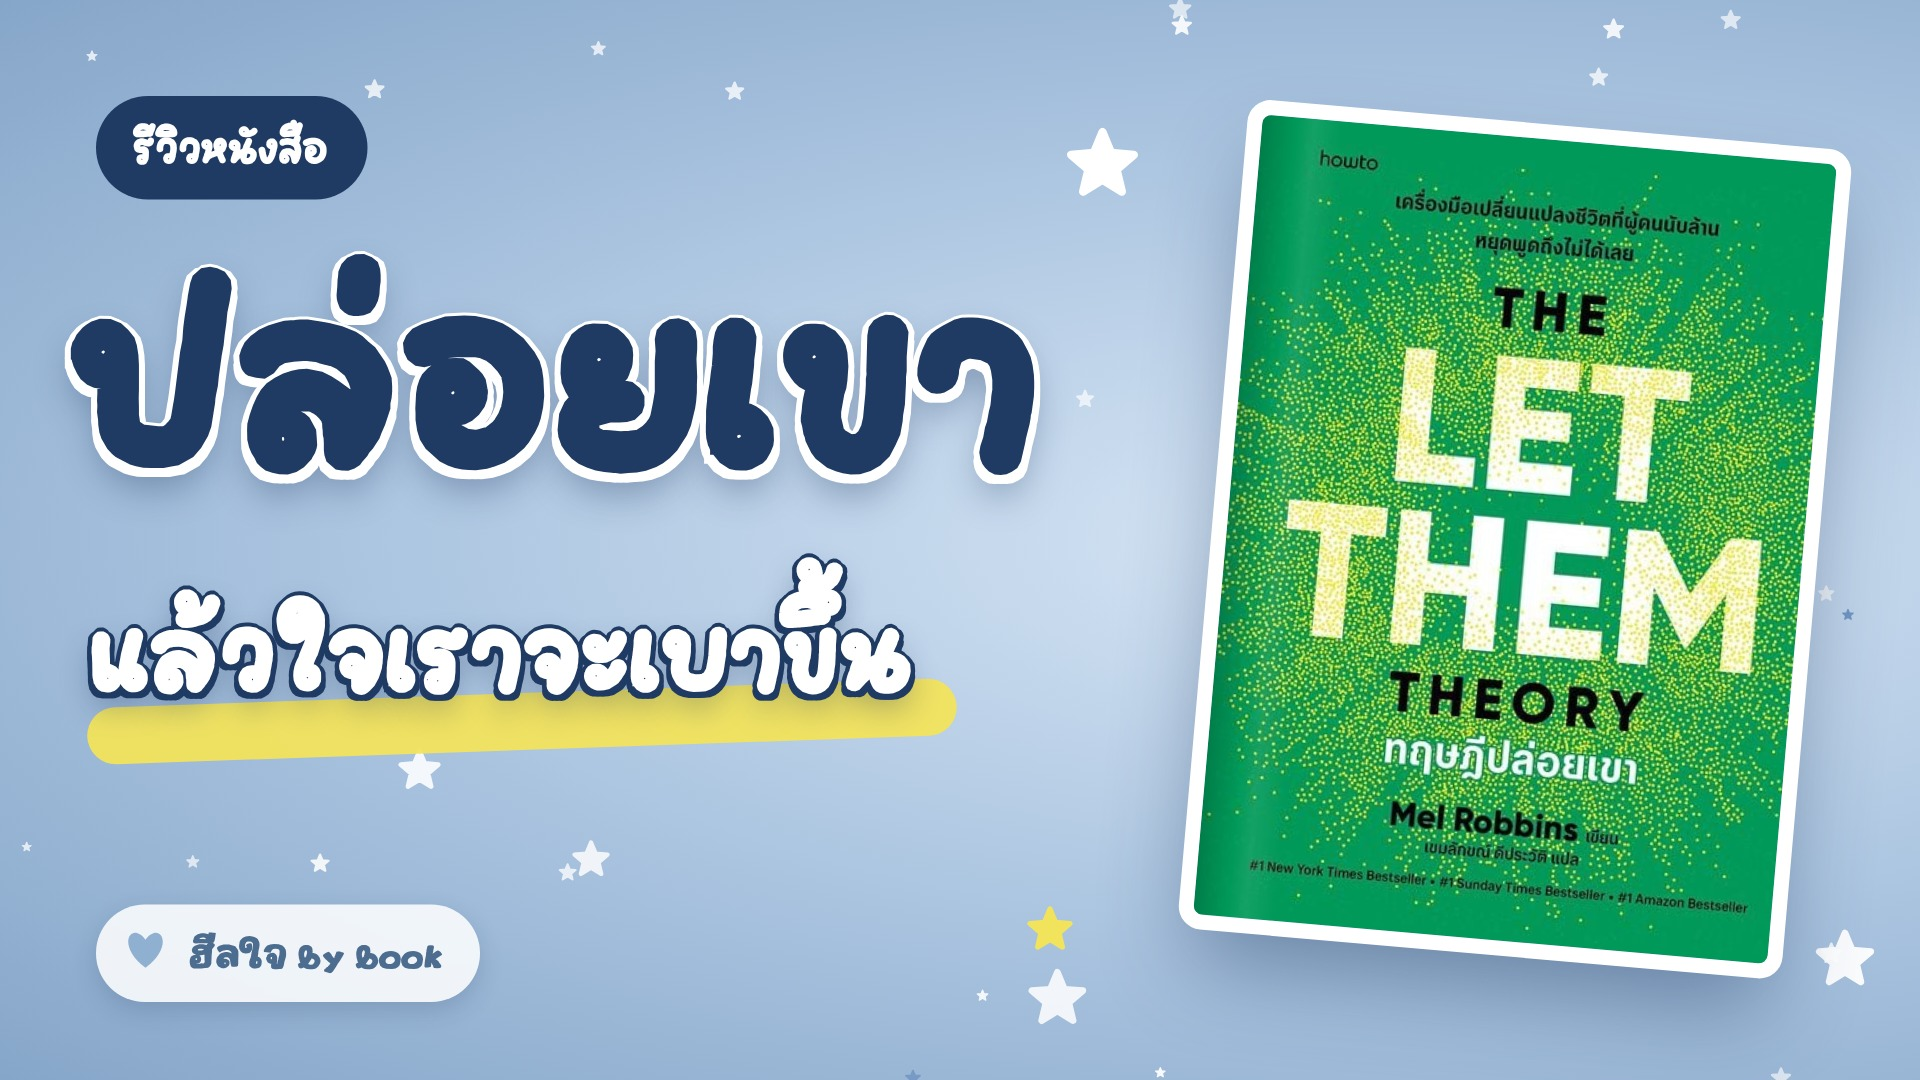
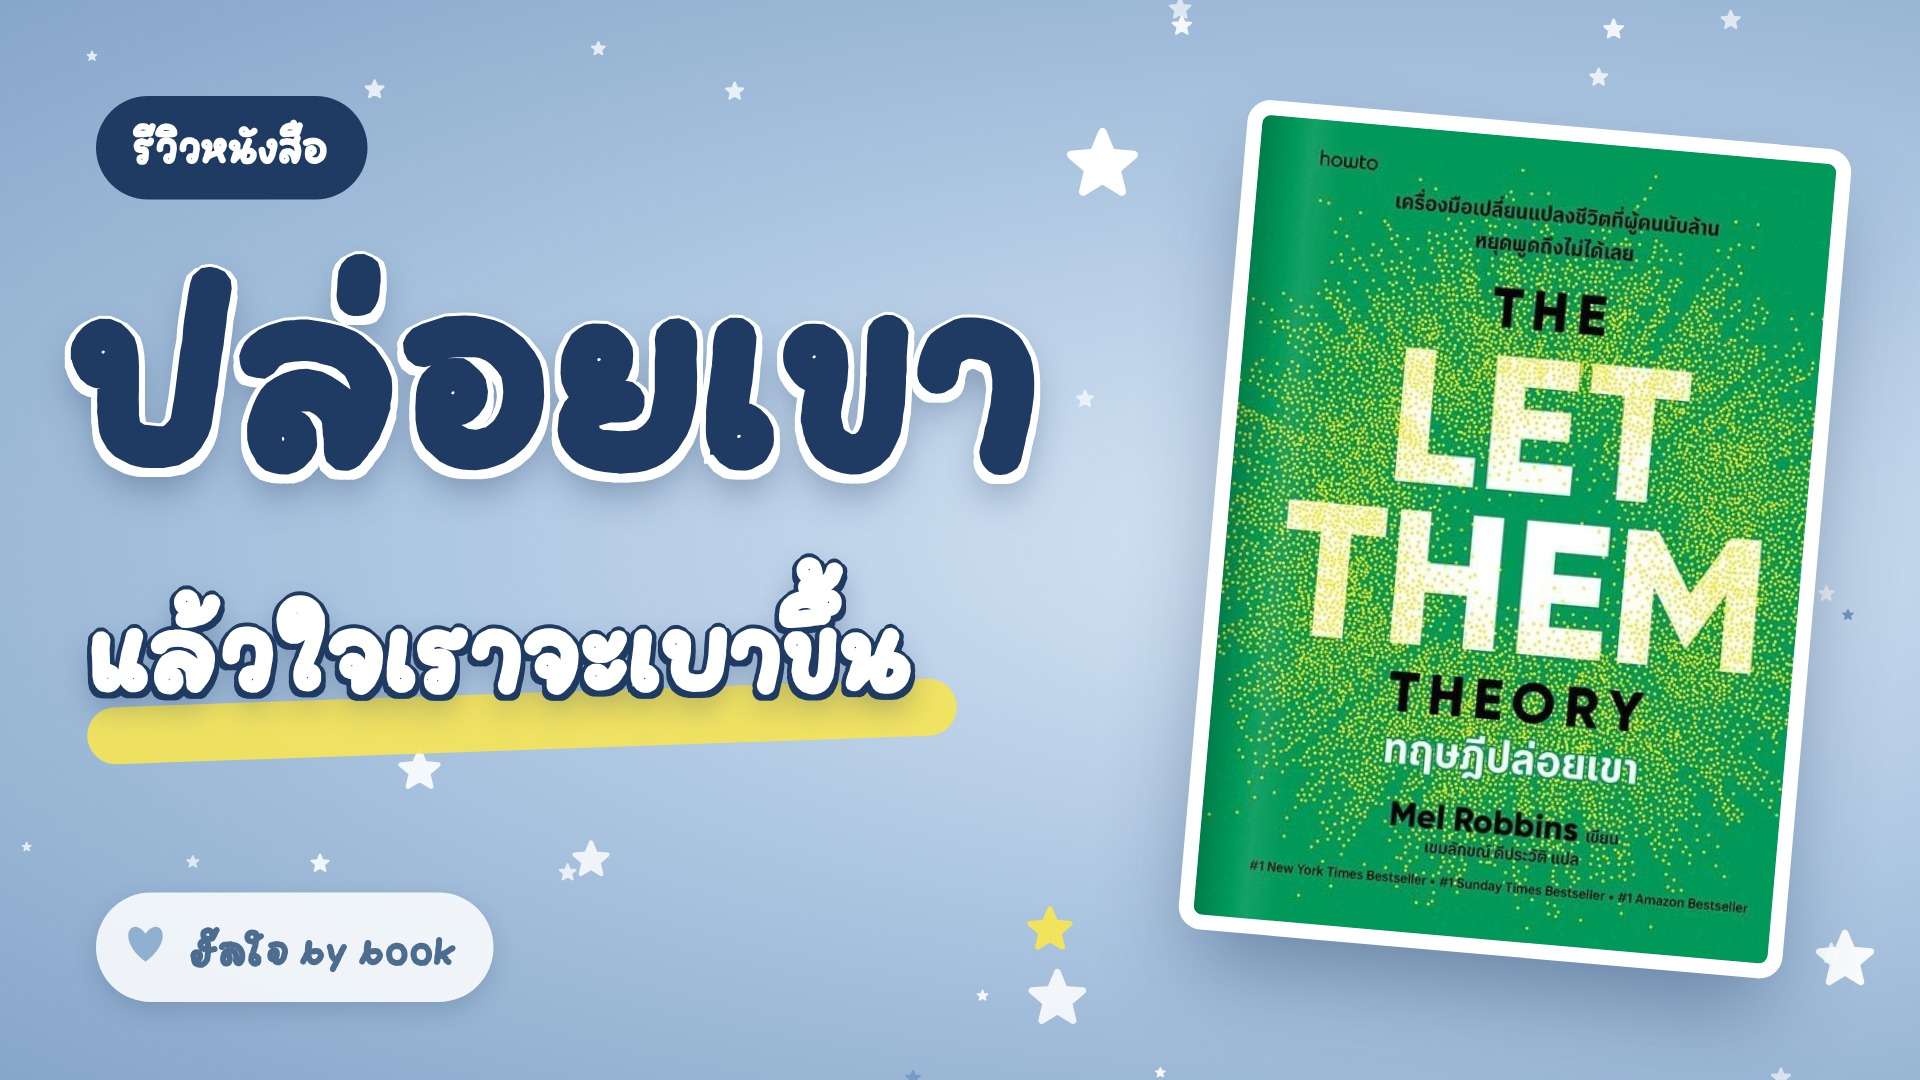
Use goodfriend font for brand label on thumbnail
Claude-Session: https://claude.ai/code/session_01QzVkrWDkQd3GqzKpuuwkHN

Changed region(s): [[0.0625, 0.825, 0.2812, 0.9167]]

diff --git a/heal-intro/thumbnails/let-them.html b/heal-intro/thumbnails/let-them.html
@@ -3,6 +3,7 @@
 <style>
 @font-face{font-family:Mali;src:url(../fonts/Mali-Bold.ttf);font-weight:700}
 @font-face{font-family:Mali;src:url(../fonts/Mali-SemiBold.ttf);font-weight:600}
+@font-face{font-family:goodfriend;src:url(../fonts/custom/goodfriend.ttf)}
 @font-face{font-family:merry;src:url(../fonts/custom/merry.ttf)}
 @font-face{font-family:sky;src:url(../fonts/custom/sky.ttf)}
 @font-face{font-family:skybold;src:url(../fonts/custom/skybold.ttf)}
@@ -18,7 +19,7 @@ svg.bg{position:absolute;inset:0}
  -webkit-text-stroke:0;text-shadow:0 6px 0 #fff,0 -2px 0 #fff,4px 0 0 #fff,-4px 0 0 #fff,4px 6px 0 #fff,-4px 6px 0 #fff,0 14px 24px rgba(25,50,90,.35)}
 #hl{position:absolute;left:58px;top:462px;width:580px;height:38px;background:#f2e35c;border-radius:24px;transform:rotate(-2deg);opacity:.95}
 #h2{font-family:skybold;position:absolute;left:62px;top:380px;font-weight:700;font-size:84px;line-height:1.25;color:#fff;text-shadow:0 4px 0 #1f3b63,3px 0 0 #1f3b63,-3px 0 0 #1f3b63,0 -3px 0 #1f3b63,3px 4px 0 #1f3b63,-3px 4px 0 #1f3b63,0 10px 20px rgba(25,50,90,.35)}
-#brand{font-family:merry;position:absolute;left:64px;bottom:52px;display:flex;align-items:center;gap:12px;padding:10px 24px 12px 16px;background:rgba(255,255,255,.85);border-radius:40px;color:#4c6d90;font-weight:600;font-size:30px;box-shadow:0 6px 16px rgba(25,50,90,.18)}
+#brand{font-family:goodfriend;position:absolute;left:64px;bottom:52px;display:flex;align-items:center;gap:12px;padding:10px 24px 12px 16px;background:rgba(255,255,255,.85);border-radius:40px;color:#4c6d90;font-weight:600;font-size:30px;box-shadow:0 6px 16px rgba(25,50,90,.18)}
 </style></head><body><div id="s">
 <svg class="bg" width="1280" height="720" id="stars"></svg>
 <div id="hl"></div>
